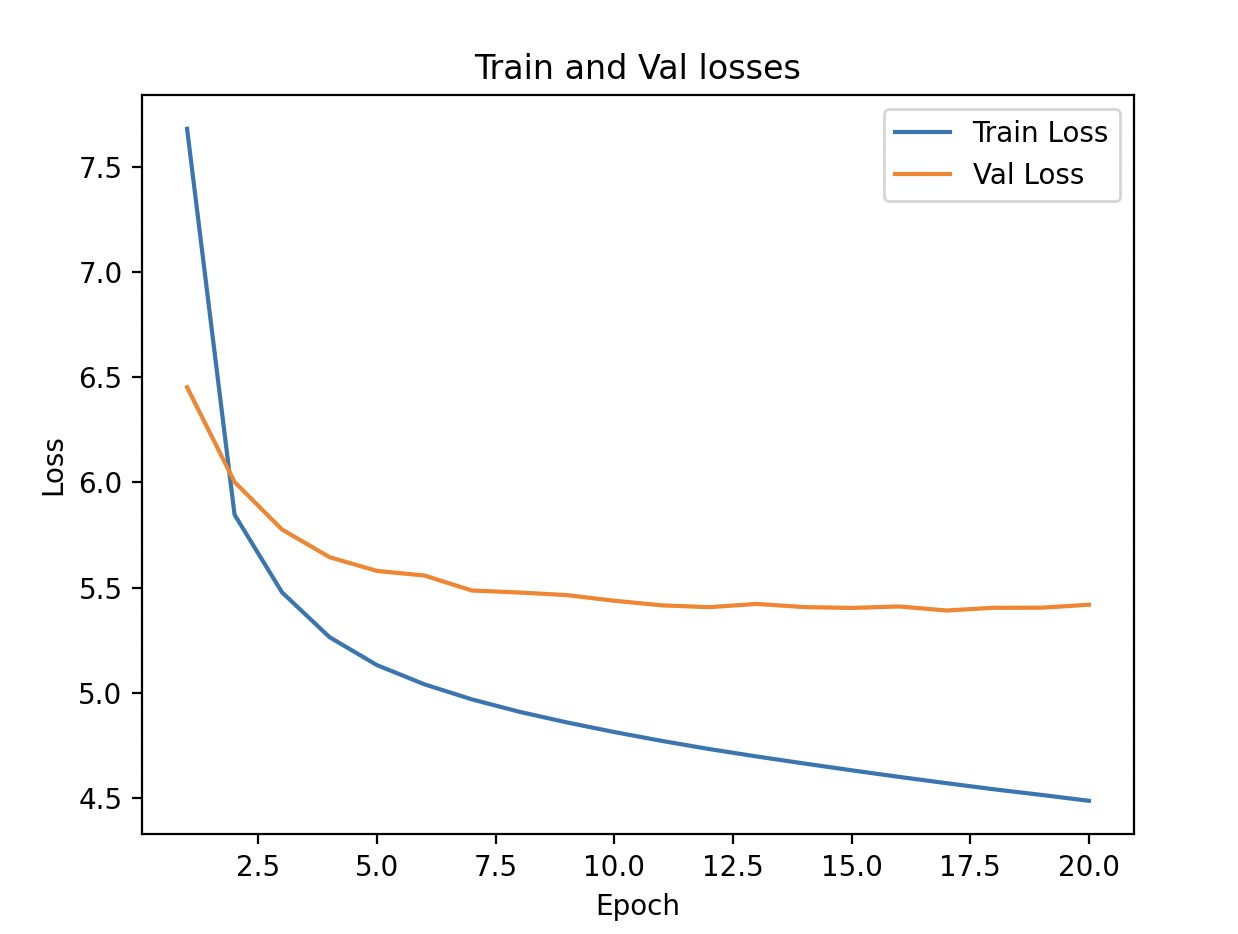
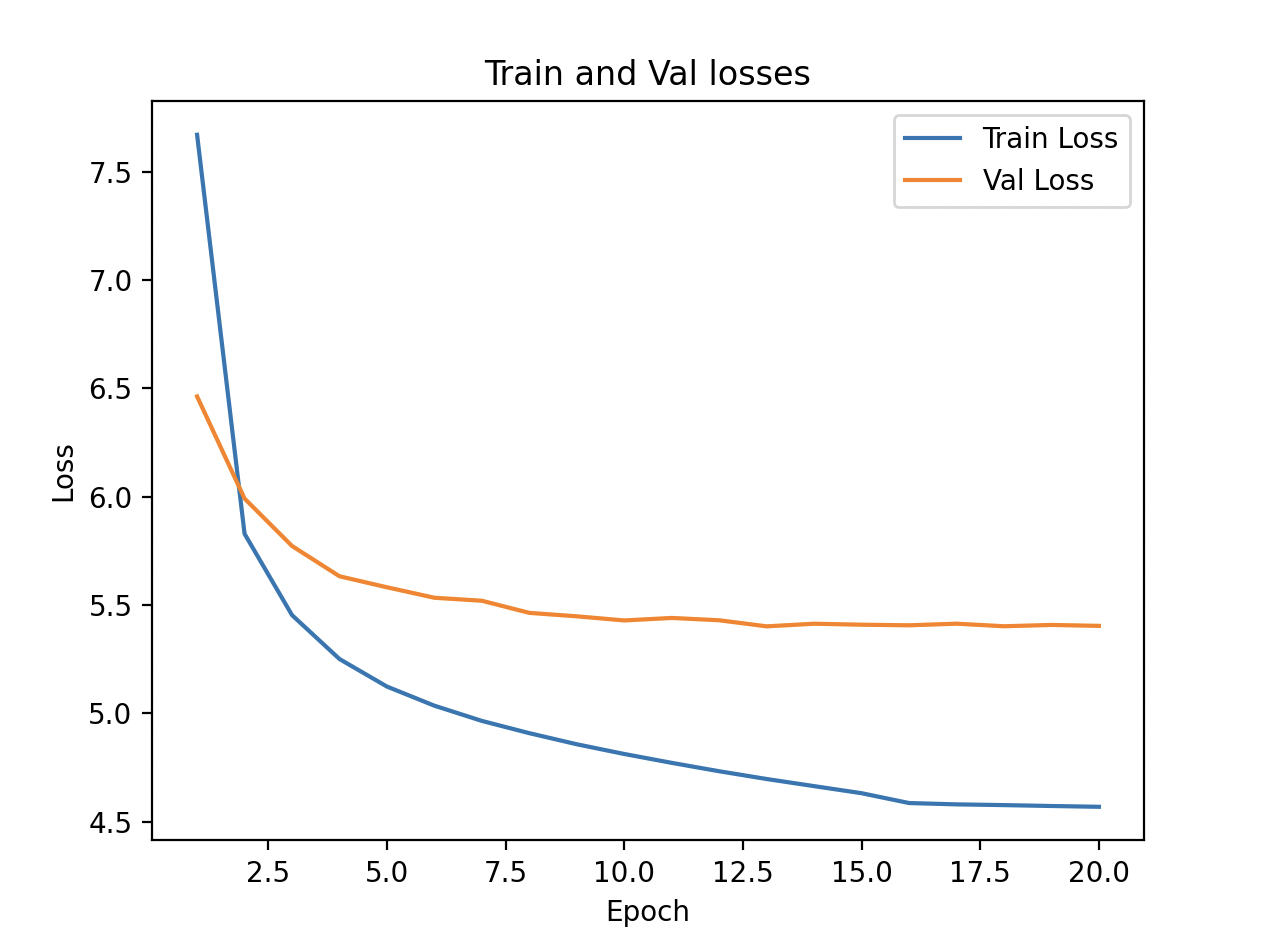
Novels - Experiment #4 (#20)

Changed region(s): [[0.0307, 0.0621, 0.9208, 0.9936]]

diff --git a/code/novels_generator/experiments/training/expt_4/run.py b/code/novels_generator/experiments/training/expt_4/run.py
@@ -1,28 +1,34 @@
 """
 This script is to run the experiment.
 """
+
 from novels_generator.code import train
 from novels_generator.code.constants import Hyperparamters
 
 
 def main():
     """
-    The main function to runs the experiment.
+    The main function to run this experiment.
     """
-    num_epochs: int = 20
+    num_epochs: int = 30
 
     # hyperparameters
     Hyperparamters.CONTEXT_LENGTH = 128
     Hyperparamters.BATCH_SIZE = 32
     Hyperparamters.VOCAB_SIZE = 40000
-    Hyperparamters.EMBEDDING_SIZE = 256
+    Hyperparamters.EMBEDDING_SIZE = 512
     Hyperparamters.SELF_ATTENTION_HEADS = 8
     Hyperparamters.NUM_LAYERS = 4
     Hyperparamters.FEED_FORWARD_SIZE = 2048
 
     def lr_lambda(epoch):
-        # for 20 epochs, train usally and then at 1e-5
-        return 1 if epoch < 15 else 1e-1
+        # base LR in the model is 1e-4.
+        # first 5 epochs, LR should be 1e-5. next 20 epochs, LR should be 1e-4. last 5 epochs, LR should be 1e-6.
+        if epoch < 5:
+            return 1e-1
+        if epoch < 25:
+            return 1
+        return 1e-2
 
     train.train_model(
         num_epochs, lr_scheduler_type='LambdaLR', lr_lambda=lr_lambda,

diff --git a/code/novels_generator/experiments/training/expt_4/details.md b/code/novels_generator/experiments/training/expt_4/details.md
@@ -1,0 +1,66 @@
+## Objective
+In the last experiment, we saw that increasing the feed forward size help a little. Let's now increase the model complexity by increasing the embedding size (to try to more effectively represent the input) and play with the learning rate a bit.
+
+We will do the following things - 
+
+- **Increase Embedding Size**: Let's increase the embedding size from 256 to 512.
+- **Learning Rate Warmup**: We generally trained at 1e-4 and then decreased to 1e-6 in later epochs in the previous experiment(s). In this experiment, let's start with a learning rate of 1e-5 for the first 5 epochs, then do the learning rate of 1e-4 for 20 epochs, and then finish the last 5 epochs with a learning rate of 1e-6. 
+- **Change number of epochs**: Because we are trying with 3 different learning rates, let's train for 30 epochs to give space to different learning rates.
+
+## Hyperparameters
+As per the above, we will use the following hyperparameters for this experiment -
+- **Context Length**: 128
+- **Batch Size**: 32
+- **Vocab Size**: 40000
+- **Embeddings Size**: 512
+- **Number of self-attention heads**: 8
+- **Number of transformer block layers**: 4
+- **Feed Forward Size**: 2048
+- **Number of epochs to train**: 30
+
+## Results
+Following are the training and valiation losses - 
+```
+Num Parameters: 53,675,072
+Epoch: 0, LR: 1e-05, Train Loss: 9.3715, Val Loss: 8.7064, Loss Diff: -0.6650
+Epoch: 1, LR: 1e-05, Train Loss: 7.9552, Val Loss: 7.6661, Loss Diff: -0.2891
+Epoch: 2, LR: 1e-05, Train Loss: 7.0257, Val Loss: 6.9628, Loss Diff: -0.0629
+Epoch: 3, LR: 1e-05, Train Loss: 6.4627, Val Loss: 6.6011, Loss Diff: 0.1384
+Epoch: 4, LR: 1e-05, Train Loss: 6.1766, Val Loss: 6.4079, Loss Diff: 0.2312
+Epoch: 5, LR: 0.0001, Train Loss: 5.6457, Val Loss: 5.7872, Loss Diff: 0.1414
+Epoch: 6, LR: 0.0001, Train Loss: 5.2147, Val Loss: 5.5913, Loss Diff: 0.3766
+Epoch: 7, LR: 0.0001, Train Loss: 5.0360, Val Loss: 5.5238, Loss Diff: 0.4878
+Epoch: 8, LR: 0.0001, Train Loss: 4.9255, Val Loss: 5.4698, Loss Diff: 0.5443
+Epoch: 9, LR: 0.0001, Train Loss: 4.8400, Val Loss: 5.4360, Loss Diff: 0.5960
+Epoch: 10, LR: 0.0001, Train Loss: 4.7662, Val Loss: 5.4092, Loss Diff: 0.6430
+Epoch: 11, LR: 0.0001, Train Loss: 4.7012, Val Loss: 5.4045, Loss Diff: 0.7033
+Epoch: 12, LR: 0.0001, Train Loss: 4.6430, Val Loss: 5.4010, Loss Diff: 0.7579
+Epoch: 13, LR: 0.0001, Train Loss: 4.5882, Val Loss: 5.3799, Loss Diff: 0.7916
+Epoch: 14, LR: 0.0001, Train Loss: 4.5351, Val Loss: 5.3846, Loss Diff: 0.8495
+Epoch: 15, LR: 0.0001, Train Loss: 4.4853, Val Loss: 5.3894, Loss Diff: 0.9041
+Epoch: 16, LR: 0.0001, Train Loss: 4.4360, Val Loss: 5.3913, Loss Diff: 0.9553
+Epoch: 17, LR: 0.0001, Train Loss: 4.3889, Val Loss: 5.4099, Loss Diff: 1.0210
+Epoch: 18, LR: 0.0001, Train Loss: 4.3408, Val Loss: 5.4253, Loss Diff: 1.0844
+Epoch: 19, LR: 0.0001, Train Loss: 4.2942, Val Loss: 5.4303, Loss Diff: 1.1361
+Epoch: 20, LR: 0.0001, Train Loss: 4.2458, Val Loss: 5.4304, Loss Diff: 1.1846
+Epoch: 21, LR: 0.0001, Train Loss: 4.1987, Val Loss: 5.4315, Loss Diff: 1.2328
+Epoch: 22, LR: 0.0001, Train Loss: 4.1512, Val Loss: 5.4602, Loss Diff: 1.3090
+Epoch: 23, LR: 0.0001, Train Loss: 4.1026, Val Loss: 5.4703, Loss Diff: 1.3677
+Epoch: 24, LR: 0.0001, Train Loss: 4.0569, Val Loss: 5.5251, Loss Diff: 1.4682
+Epoch: 25, LR: 1.0000000000000002e-06, Train Loss: 3.9657, Val Loss: 5.4826, Loss Diff: 1.5168
+Epoch: 26, LR: 1.0000000000000002e-06, Train Loss: 3.9606, Val Loss: 5.4694, Loss Diff: 1.5088
+Epoch: 27, LR: 1.0000000000000002e-06, Train Loss: 3.9568, Val Loss: 5.4878, Loss Diff: 1.5310
+Epoch: 28, LR: 1.0000000000000002e-06, Train Loss: 3.9545, Val Loss: 5.4975, Loss Diff: 1.5430
+Epoch: 29, LR: 1.0000000000000002e-06, Train Loss: 3.9527, Val Loss: 5.4802, Loss Diff: 1.5274
+```
+
+## Findings
+As compared to the previous experiment, we see the following - 
+
+- **Validation Losses**: We don't see a improvement in the validation loss from the last experiment. Though, the training loss continues to decrease, the validation loss remains moreor less constant since epoch 10. This indicates that the network is not generalizing.
+- **Overfitting**: The difference between train loss and validation loss is higher (~1.5). This shows that the more complex model has the capacity to learn more (shown by decreasing training loss), but, because validation loss is not increasing, it might be overfitting.
+
+This might be indicating that the input is becoming a constraint now, so we may experiment with increasing the context length.
+
+The training and validation losses are also depicted in the graph below - 
+![Loss](loss.png)

diff --git a/code/novels_generator/experiments/training/expt_3/details.md b/code/novels_generator/experiments/training/expt_3/details.md
@@ -23,26 +23,27 @@ As per the above, we will use the following hyperparameters for this experiment 
 ## Results
 Below are the training and validation losses.
 ```
-Epoch: 0, LR: 0.0001, Train Loss: 7.6822, Val Loss: 6.4531, Loss Diff: -1.2291
-Epoch: 1, LR: 0.0001, Train Loss: 5.8468, Val Loss: 6.0024, Loss Diff: 0.1556
-Epoch: 2, LR: 0.0001, Train Loss: 5.4775, Val Loss: 5.7764, Loss Diff: 0.2989
-Epoch: 3, LR: 0.0001, Train Loss: 5.2644, Val Loss: 5.6449, Loss Diff: 0.3804
-Epoch: 4, LR: 0.0001, Train Loss: 5.1313, Val Loss: 5.5793, Loss Diff: 0.4480
-Epoch: 5, LR: 0.0001, Train Loss: 5.0400, Val Loss: 5.5575, Loss Diff: 0.5175
-Epoch: 6, LR: 0.0001, Train Loss: 4.9684, Val Loss: 5.4862, Loss Diff: 0.5178
-Epoch: 7, LR: 0.0001, Train Loss: 4.9094, Val Loss: 5.4766, Loss Diff: 0.5673
-Epoch: 8, LR: 0.0001, Train Loss: 4.8589, Val Loss: 5.4644, Loss Diff: 0.6055
-Epoch: 9, LR: 0.0001, Train Loss: 4.8131, Val Loss: 5.4375, Loss Diff: 0.6244
-Epoch: 10, LR: 0.0001, Train Loss: 4.7709, Val Loss: 5.4157, Loss Diff: 0.6448
-Epoch: 11, LR: 0.0001, Train Loss: 4.7322, Val Loss: 5.4069, Loss Diff: 0.6747
-Epoch: 12, LR: 0.0001, Train Loss: 4.6969, Val Loss: 5.4224, Loss Diff: 0.7255
-Epoch: 13, LR: 0.0001, Train Loss: 4.6634, Val Loss: 5.4074, Loss Diff: 0.7439
-Epoch: 14, LR: 0.0001, Train Loss: 4.6311, Val Loss: 5.4033, Loss Diff: 0.7721
-Epoch: 15, LR: 0.0001, Train Loss: 4.5998, Val Loss: 5.4104, Loss Diff: 0.8106
-Epoch: 16, LR: 0.0001, Train Loss: 4.5699, Val Loss: 5.3911, Loss Diff: 0.8212
-Epoch: 17, LR: 0.0001, Train Loss: 4.5407, Val Loss: 5.4041, Loss Diff: 0.8633
-Epoch: 18, LR: 0.0001, Train Loss: 4.5140, Val Loss: 5.4044, Loss Diff: 0.8904
-Epoch: 19, LR: 0.0001, Train Loss: 4.4860, Val Loss: 5.4186, Loss Diff: 0.9326
+Num Parameters: 25,813,056
+Epoch: 0, LR: 0.0001, Train Loss: 7.6700, Val Loss: 6.4625, Loss Diff: -1.2075
+Epoch: 1, LR: 0.0001, Train Loss: 5.8287, Val Loss: 5.9913, Loss Diff: 0.1626
+Epoch: 2, LR: 0.0001, Train Loss: 5.4533, Val Loss: 5.7724, Loss Diff: 0.3191
+Epoch: 3, LR: 0.0001, Train Loss: 5.2507, Val Loss: 5.6326, Loss Diff: 0.3819
+Epoch: 4, LR: 0.0001, Train Loss: 5.1236, Val Loss: 5.5818, Loss Diff: 0.4582
+Epoch: 5, LR: 0.0001, Train Loss: 5.0353, Val Loss: 5.5334, Loss Diff: 0.4981
+Epoch: 6, LR: 0.0001, Train Loss: 4.9651, Val Loss: 5.5196, Loss Diff: 0.5545
+Epoch: 7, LR: 0.0001, Train Loss: 4.9085, Val Loss: 5.4637, Loss Diff: 0.5552
+Epoch: 8, LR: 0.0001, Train Loss: 4.8573, Val Loss: 5.4478, Loss Diff: 0.5905
+Epoch: 9, LR: 0.0001, Train Loss: 4.8125, Val Loss: 5.4287, Loss Diff: 0.6162
+Epoch: 10, LR: 0.0001, Train Loss: 4.7715, Val Loss: 5.4402, Loss Diff: 0.6687
+Epoch: 11, LR: 0.0001, Train Loss: 4.7328, Val Loss: 5.4295, Loss Diff: 0.6968
+Epoch: 12, LR: 0.0001, Train Loss: 4.6970, Val Loss: 5.4015, Loss Diff: 0.7045
+Epoch: 13, LR: 0.0001, Train Loss: 4.6641, Val Loss: 5.4136, Loss Diff: 0.7495
+Epoch: 14, LR: 0.0001, Train Loss: 4.6315, Val Loss: 5.4091, Loss Diff: 0.7776
+Epoch: 15, LR: 1e-05, Train Loss: 4.5861, Val Loss: 5.4064, Loss Diff: 0.8203
+Epoch: 16, LR: 1e-05, Train Loss: 4.5799, Val Loss: 5.4138, Loss Diff: 0.8338
+Epoch: 17, LR: 1e-05, Train Loss: 4.5765, Val Loss: 5.4020, Loss Diff: 0.8254
+Epoch: 18, LR: 1e-05, Train Loss: 4.5724, Val Loss: 5.4080, Loss Diff: 0.8355
+Epoch: 19, LR: 1e-05, Train Loss: 4.5687, Val Loss: 5.4037, Loss Diff: 0.8350
 ```
 
 ## Findings

diff --git a/code/novels_generator/experiments/training/expt_2/details.md b/code/novels_generator/experiments/training/expt_2/details.md
@@ -13,7 +13,7 @@ As per the above, we will use the following hyperparameters for this experiment 
 - **Batch Size**: 32
 - **Vocab Size**: 40000
 - **Embeddings Size**: 256
-- **Number of self-attention heads**: 6
+- **Number of self-attention heads**: 8
 - **Number of transformer block layers**: 4
 - **Feed Forward Size**: 1024
 - **Number of epochs to train**: 30
